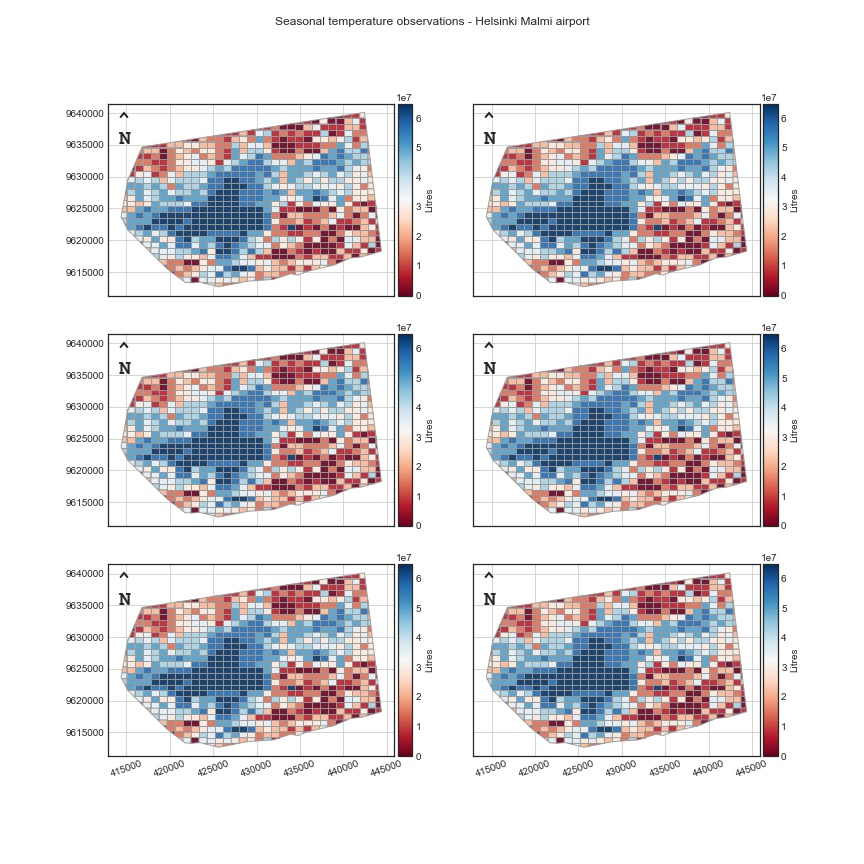
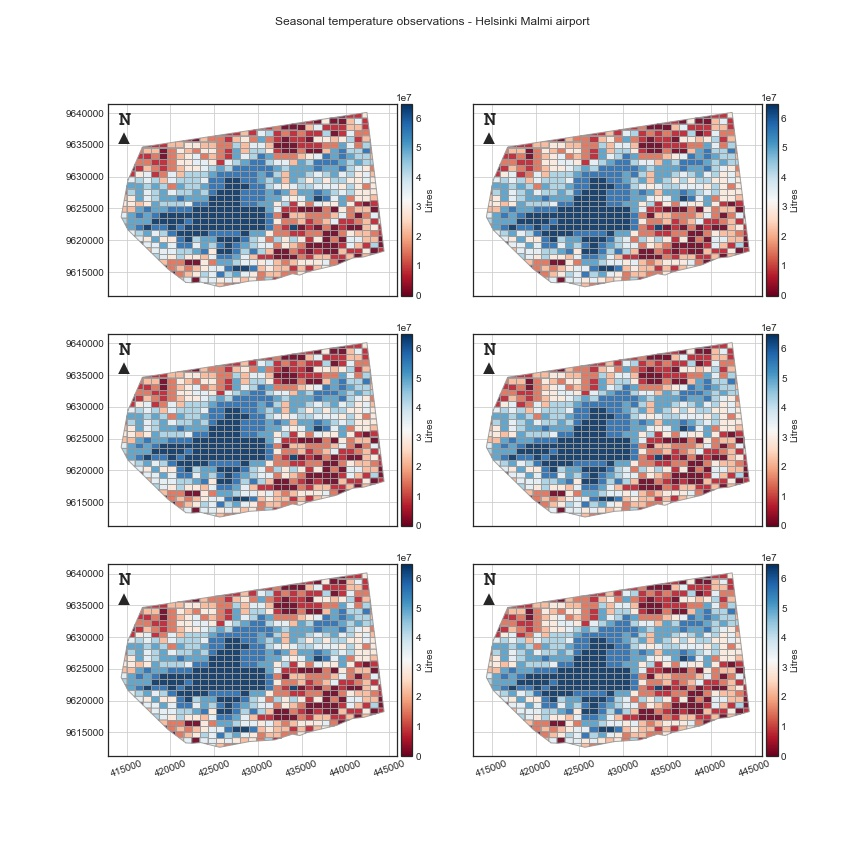
north arrow also included

diff --git a/thesis/analysis.py b/thesis/analysis.py
@@ -383,7 +383,7 @@ def colorbar(ax):
     fig = ax.get_figure()
     sm = plt.cm.ScalarMappable(cmap='RdBu', norm=plt.Normalize(vmin=vmin, vmax=vmax))
     divider = make_axes_locatable(ax)
-    cax = divider.append_axes("right", size="5%", pad=0.05)
+    cax = divider.append_axes("right", size="4%", pad=0.05)
     # fake up the array of the scalar mappable. Urgh...
     sm._A = []
     cbar=fig.colorbar(sm, cax=cax)
@@ -413,7 +413,7 @@ def main(r,c, axes):
     plt.setp(axis.xaxis.get_majorticklabels(), rotation=20)  
     
     minx,miny,maxx,maxy =  buildings_rain_aggr.total_bounds
-    map_plot.text(x=minx+1000,y=maxy-5000, s='^ \nN ', ha='center', fontsize=20, weight='bold', family='Courier new', rotation = 0)
+    map_plot.text(x=minx+1000,y=maxy-5000, s=u'N \n\u25B2 ', ha='center', fontsize=20, weight='bold', family='Courier new', rotation = 0)
     #ax11.text(datetime(2013, 2, 15), -25, 'Winter')
     plt.setp(axis.xaxis.get_majorticklabels(), rotation=20)
     colorbar(map_plot)
@@ -426,66 +426,3 @@ fig, axes = plt.subplots(nrows=3, ncols=2, figsize=(12,12), sharex=True, sharey=
    
 autoplot(main=main, axes=axes)
    
-   print(axes[i,i+1])
- 
- # Rename the axes for ease of use
- ax11 = axes[0][0]
- ax12 = axes[0][1]
- ax21 = axes[1][0]
- ax22 = axes[1][1]
- 
- # Set the plotted line width
- line_width = 1.5
- 
- # Plot data
- buildings_rain_aggr.plot(ax=ax11, column=column, cmap="RdBu", legend=True, scheme="quantiles", k=10, alpha=0.9,edgecolor='0.6')
- buildings_rain_aggr.plot(ax=ax12, column=column, cmap="RdBu", scheme="quantiles", k=10, alpha=0.9)
- buildings_rain_aggr.plot(ax=ax21, column=column, cmap="RdBu", scheme="quantiles", k=10, alpha=0.9)
- buildings_rain_aggr.plot(ax=ax22, column=column, cmap="RdBu", scheme="quantiles", k=10, alpha=0.9)
- 
- 
- leg = ax11.get_legend()
- leg.set_bbox_to_anchor((0., 0., 0.5, 0.5))
- 
- 
- # Set y-axis limits
- minx,miny,maxx,maxy =  buildings_rain_aggr.total_bounds
- #ax11.set_ylim(miny, maxy)
- #ax12.set_ylim(miny, maxy)
- #ax21.set_ylim(miny, maxy)
- #ax22.set_ylim(miny, maxy)
- 
- # Turn plot grids on
- ax11.grid()
- ax12.grid()
- ax21.grid()
- ax22.grid()
- 
- # Figure title
- fig.suptitle('Seasonal temperature observations - Helsinki Malmi airport')
- 
- # Rotate the x-axis labels so they don't overlap
- plt.setp(ax11.xaxis.get_majorticklabels(), rotation=20)
- plt.setp(ax12.xaxis.get_majorticklabels(), rotation=20)
- plt.setp(ax21.xaxis.get_majorticklabels(), rotation=20)
- plt.setp(ax22.xaxis.get_majorticklabels(), rotation=20)
- 
- # Axis labels
- ax21.set_xlabel('Date')
- ax22.set_xlabel('Date')
- ax11.set_ylabel('Temperature [deg. C]')
- ax21.set_ylabel('Temperature [deg. C]')
- 
- # Season label text
- #ax11.text(datetime(2013, 2, 15), -25, 'Winter')
- #ax12.text(datetime(2013, 5, 15), -25, 'Spring')
- #ax21.text(datetime(2013, 8, 15), -25, 'Summer')
- #ax22.text(datetime(2013, 11, 15), -25, 'Fall')
- 
- fig
- 
- plt.savefig(r'C:\Users\oyeda\Desktop\msc\test.jpg')
- 
- 
-# 
-# =============================================================================

diff --git a/thesis/visualise.py b/thesis/visualise.py
@@ -168,7 +168,7 @@ ax11.set_ylabel('Temperature [deg. C]')
 ax21.set_ylabel('Temperature [deg. C]')
 
 # Season label text
-#ax11.text(datetime(2013, 2, 15), -25, 'Winter')
+
 #ax12.text(datetime(2013, 5, 15), -25, 'Spring')
 #ax21.text(datetime(2013, 8, 15), -25, 'Summer')
 #ax22.text(datetime(2013, 11, 15), -25, 'Fall')
